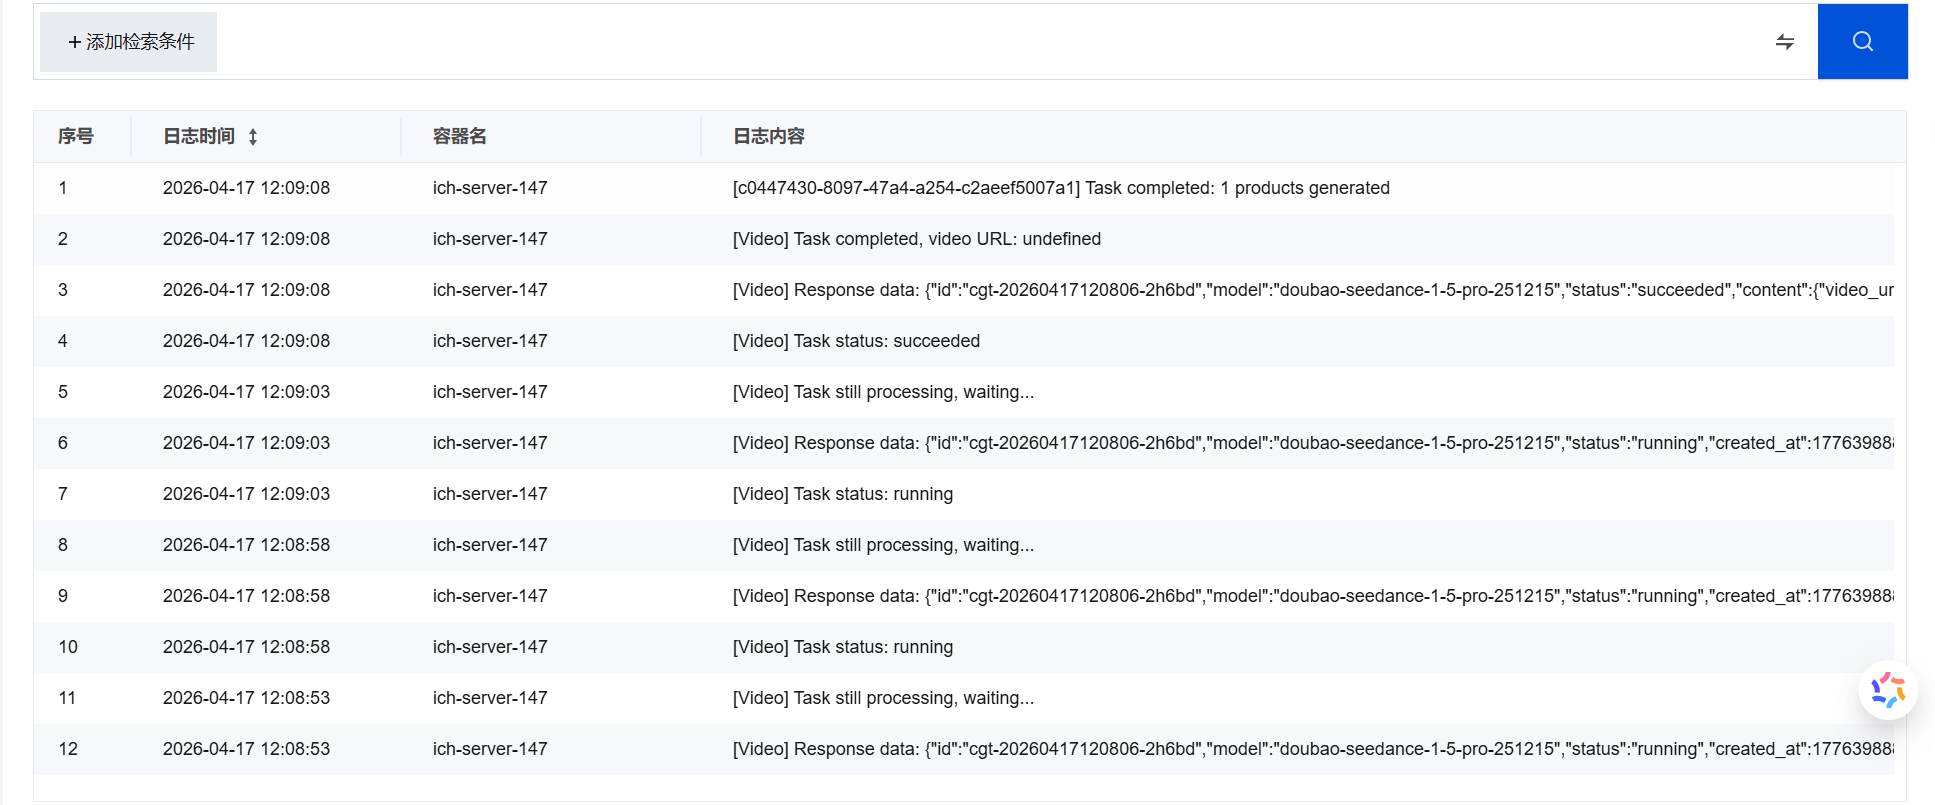
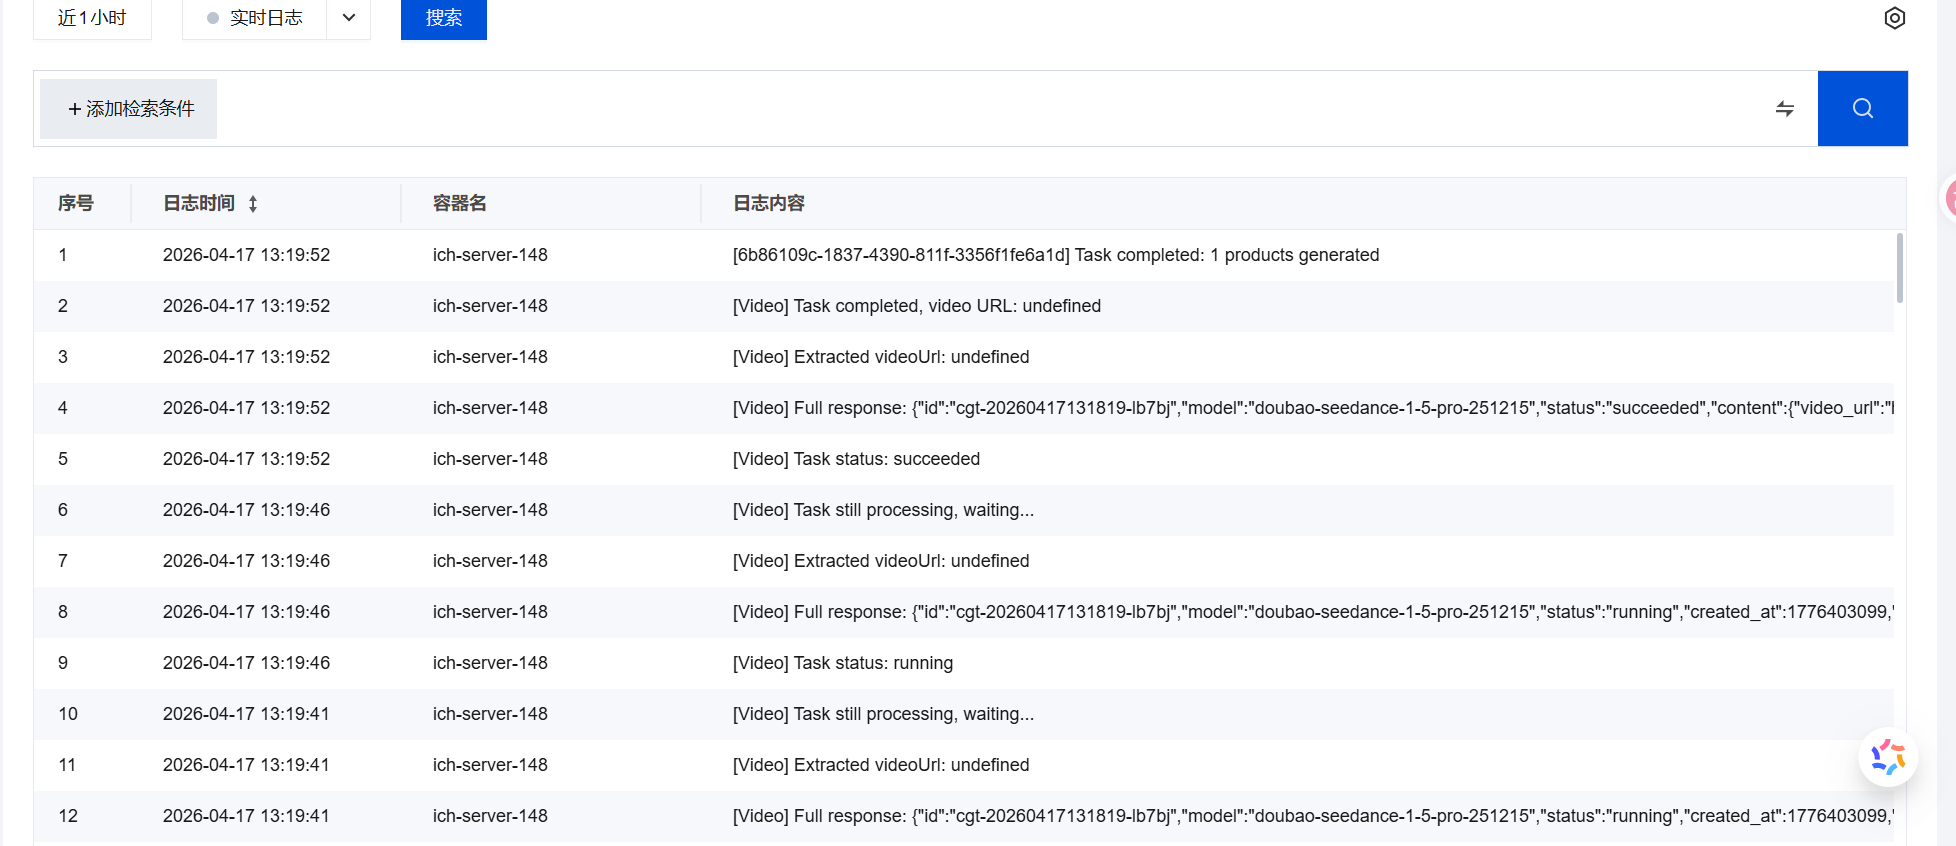
fix: 修复视频URL提取，添加content.video_url

diff --git a/server/src/routes/play.ts b/server/src/routes/play.ts
@@ -146,12 +146,12 @@ async function getVideoTaskStatus(taskId: string): Promise<{ status: string; vid
   
   // 尝试多种可能的返回格式
   const videoUrl = data.video_url 
+    || data.content?.video_url  // 火山引擎返回格式
     || data.output?.video_url 
     || data.data?.video_url
     || data.data?.url
     || data.output?.url
-    || data.url
-    || data.data?.task_status;
+    || data.url;
   
   console.log('[Video] Extracted videoUrl:', videoUrl);
   
